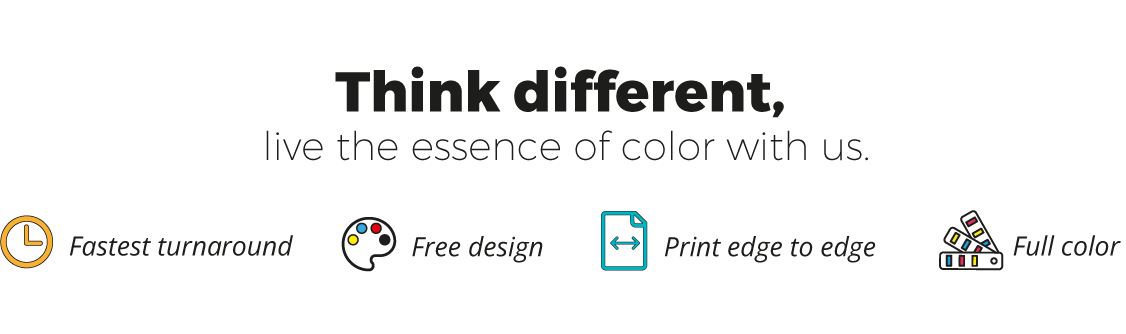
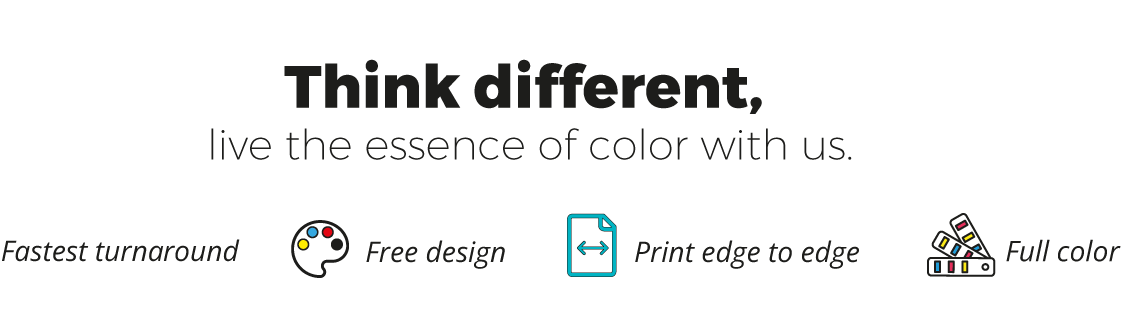
finalinfinito1

diff --git a/css/style.css b/css/style.css
@@ -182,12 +182,13 @@ html {
   width: 95%;
   height: 90%;
   border-radius: 20px;
-  margin: 10px;
+  margin: 15px;
 }
 
 .texini {
   display: flex;
   width: 85%;
+  justify-items: center;
   height: 350px;
   margin: 0 auto 30px;
   border-top: 3px solid #7c727297;

diff --git a/index.php b/index.php
@@ -122,7 +122,7 @@
       <a href=""><img class="imagen3" src="img/7.png" alt="" /></a>
     </div>
     <div class="texini">
-      <img width="100%" src="img/10.png" alt="" />
+      <img width="100%" src="img/info.png" alt="" />
     </div>
     
      <div class="gallery-container">
